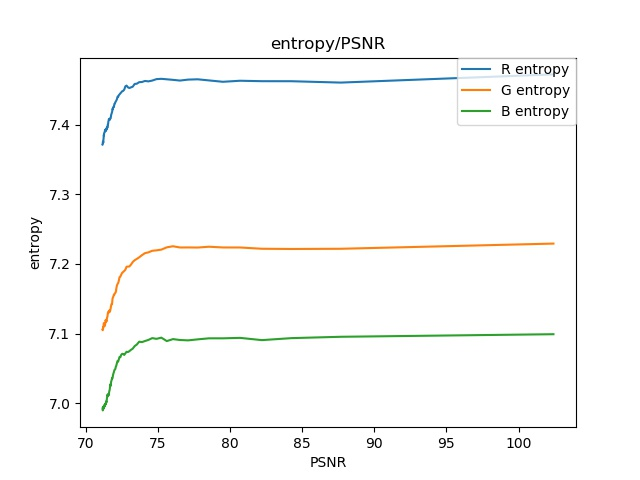
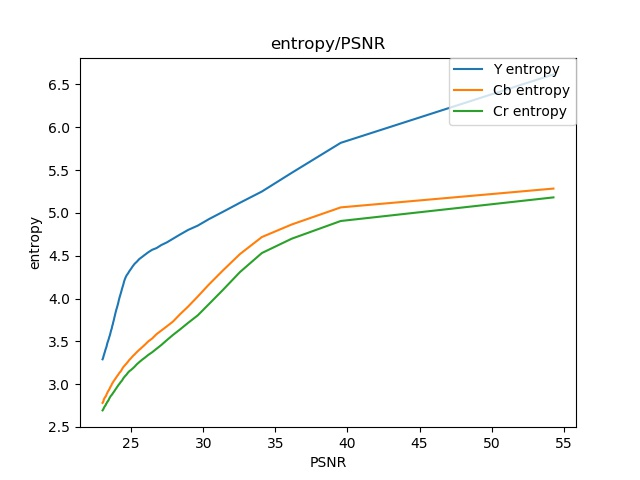
add zigzag and entropy/psnr fixes

diff --git a/utils.py b/utils.py
@@ -16,6 +16,30 @@ def psnr(img1, img2):
     PIXEL_MAX = 255.0
     return 20 * np.log10(PIXEL_MAX / np.sqrt(mse))
 
+def code_seq(array):
+    """
+    Series Length Coding
+    """
+    prev = array[0]
+    count = 1
+    res = []
+    for i in array[1:]:
+        if count > 15 and prev == 0 and i == prev:
+            res.append([4, i])
+            res.append([4, i])
+            res.append([4, i])
+            res.append([4, i])
+            count = 1
+            continue
+
+        if i == prev:
+            count += 1
+            continue
+        res.append([count, i])
+        prev = i
+        count = 1
+    return res
+
 def entropy(array):
     """
     Computes entropy.
@@ -23,17 +47,15 @@ def entropy(array):
     len_arr = array.shape[0]
     # ensure int arr
     array = np.array(array).astype(int)
+    array = np.array(code_seq(array))
+    unique_rows, counts = np.unique(array, axis=0, return_counts=True)
 
-    counts = np.bincount(array)
-    probs = counts / len_arr
-
-    probs[probs == 0] = 10e-10
+    probs = counts / np.sum(counts)
     entropy = 0.
     for i in probs:
         entropy -= i * np.log2(i)
 
-    return entropy
-
+    return entropy #* len(unique_rows)
 
 def rgb2ycbcr(im):
     xform = np.array([[.299, .587, .114], [-.1687, -.3313, .5], [.5, -.4187, -.0813]])
@@ -311,13 +333,57 @@ class jpeg():
         ax1.set_ylabel('entropy')
         ax1.set_xlabel('PSNR')
 
-        plt.plot(self.PSNR, self.entropy_list[:, 0], label="R entropy")
-        plt.plot(self.PSNR, self.entropy_list[:, 1], label="G entropy")
-        plt.plot(self.PSNR, self.entropy_list[:, 2], label="B entropy")
+        plt.plot(self.PSNR, self.entropy_list[:, 0], label="Y entropy")
+        plt.plot(self.PSNR, self.entropy_list[:, 1], label="Cb entropy")
+        plt.plot(self.PSNR, self.entropy_list[:, 2], label="Cr entropy")
 
         plt.legend(loc='upper right', borderaxespad=0.)
         plt.savefig("entropy-PSNR.jpg")
         plt.show()
+
+
+    def walk(self, matrix):
+        """
+        https://qna.habr.com/q/146043
+        Move all zeros to the end
+        :param DCT (numpy): DCT array
+        :return: DCT 1D-array with all zeros in the end
+        """
+        zigzag = []
+        for index in range(1, len(matrix)):
+            slice = [i[:index] for i in matrix[:index]]
+            diag = [slice[i][len(slice) - i - 1] for i in range(len(slice))]
+            if len(diag) % 2:
+                diag.reverse()
+            zigzag += diag
+        return zigzag
+
+    # def walk(self, matrix):
+    #     """
+    #     https://qna.habr.com/q/146043
+    #     Move all zeros to the end
+    #     :param DCT (numpy): DCT array
+    #     :return: DCT 1D-array with all zeros in the end
+    #     """
+    #     return list(matrix.reshape(-1))
+
+    def full_walk(self, img_DCT, N):
+        """
+        Move all zeros to the end for all img
+        :param DCT (numpy): DCT array
+        :return: DCT 1D-array with all zeros in the end
+        """
+        img_DCT_after_zig_zag = copy.deepcopy(img_DCT)
+        res = []
+        h, w = img_DCT.shape[0], img_DCT.shape[1]
+        for i in range(int(h / N)):
+            i = i * N
+            for j in range(int(w / N)):
+                j = j * N
+
+                res += self.walk(img_DCT_after_zig_zag[i:i+N,j:j+N])
+
+        return res
 
 
     def get_entropy_percentage_graph(self, step):
@@ -329,9 +395,11 @@ class jpeg():
         entropy_list = []
         for percentage in range(0, 100, step):
             quantization_matrix = self.get_quantization_matrix(percentage)
-            DCT_after_full_quantization = self.full_dequantization(self.full_quantization(self.img_DCT, quantization_matrix, self.N), quantization_matrix, self.N)
-            img_after_ok_compression = ycbcr2rgb(self.do_full_rev_DCT_transform(DCT_after_full_quantization, self.N) * 255)
-            entropy_jpg = list(map(lambda i: entropy(img_after_ok_compression[:, :, i].reshape(-1)), list(range(3)) ))
+            DCT_after_full_quantization = self.full_quantization(self.img_DCT, quantization_matrix, self.N)
+            DCT_after_zig_zag = list(map(lambda i: self.full_walk(DCT_after_full_quantization[:, :, i], self.N), list(range(3)) ))
+            DCT_after_zig_zag = np.array(DCT_after_zig_zag) * 255
+            #img_after_ok_compression = ycbcr2rgb(self.do_full_rev_DCT_transform(DCT_after_full_quantization, self.N) * 255)
+            entropy_jpg = list(map(lambda i: entropy(DCT_after_zig_zag[i]), list(range(3)) ))
             entropy_list.append(entropy_jpg)
         entropy_list = np.array(entropy_list)
 
@@ -341,9 +409,9 @@ class jpeg():
         ax1.set_xlabel('R')
         ax1.set_ylabel('entropy')
 
-        plt.plot(range(0, 100, step), entropy_list[:, 0], label="R entropy")
-        plt.plot(range(0, 100, step), entropy_list[:, 1], label="G entropy")
-        plt.plot(range(0, 100, step), entropy_list[:, 2], label="B entropy")
+        plt.plot(range(0, 100, step), entropy_list[:, 0], label="Y entropy")
+        plt.plot(range(0, 100, step), entropy_list[:, 1], label="Cb entropy")
+        plt.plot(range(0, 100, step), entropy_list[:, 2], label="Cr entropy")
 
         plt.legend(loc='upper right', borderaxespad=0.)
         plt.savefig("percentage-entropy.jpg")
@@ -358,12 +426,12 @@ class jpeg():
         """
         PSNR = []
         img_DCT = copy.deepcopy(self.img_DCT)
-        ref = ycbcr2rgb(self.img * 255) / 255
+        ref = ycbcr2rgb(self.img * 255)
 
         for percentage in range(0, 100, step):
             quantization_matrix = self.get_quantization_matrix(percentage)
-            DCT_after_full_quantization = self.full_dequantization(self.full_quantization(img_DCT, quantization_matrix, self.N), quantization_matrix, self.N)
-            img_after_ok_compression = ycbcr2rgb(self.do_full_rev_DCT_transform(DCT_after_full_quantization, self.N) * 255) / 255
+            DCT_after_full_quantization = self.full_dequantization( self.full_quantization(img_DCT, quantization_matrix, self.N) , quantization_matrix, self.N)
+            img_after_ok_compression = ycbcr2rgb(self.do_full_rev_DCT_transform(DCT_after_full_quantization, self.N) * 255)
             PSNR_jpg = psnr(img_after_ok_compression, ref)
             PSNR.append(PSNR_jpg)
 
